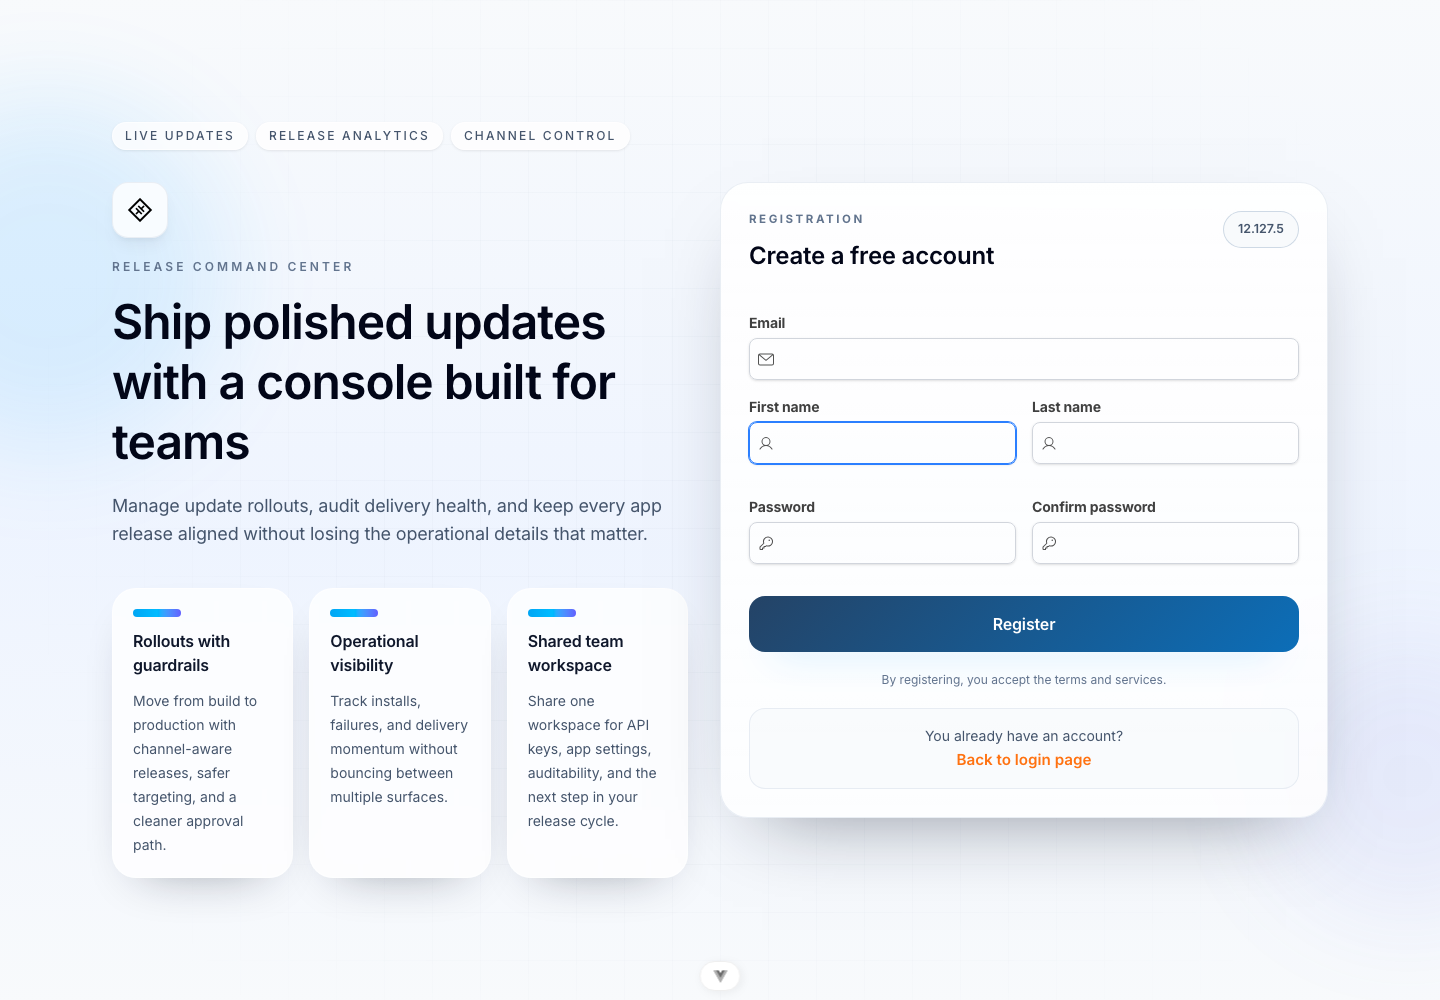
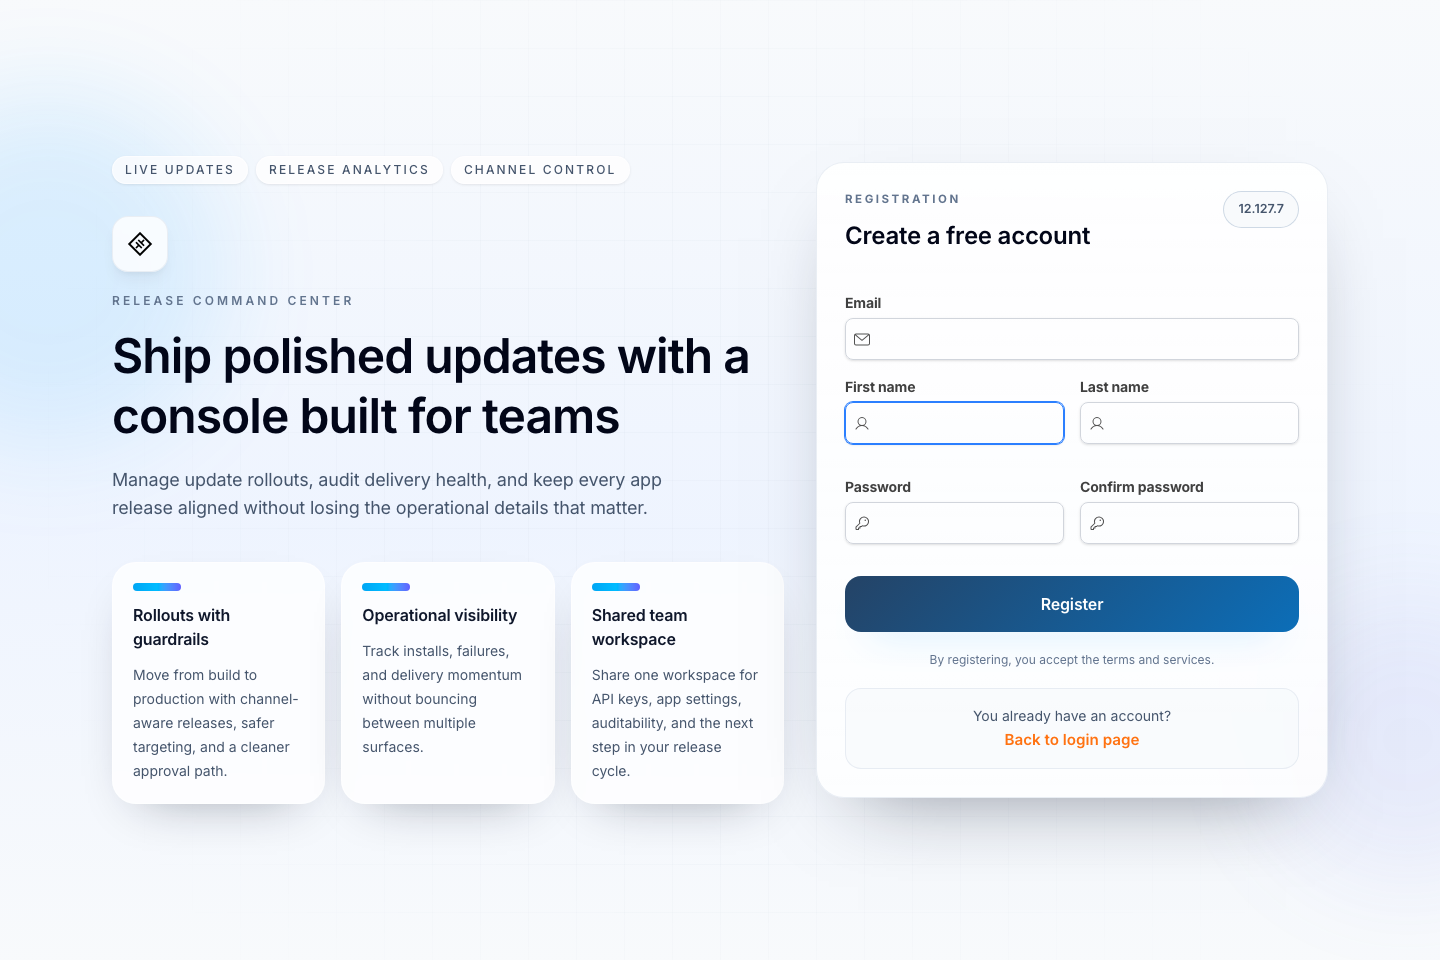
fix(frontend): refine dashboard and auth screenshots

diff --git a/src/components/auth/AuthPageShell.vue b/src/components/auth/AuthPageShell.vue
@@ -68,7 +68,7 @@ const heroHighlights = computed(() => props.heroHighlights ?? [
       />
     </div>
 
-    <div class="relative mx-auto grid w-full max-w-7xl gap-8 px-4 py-8 sm:px-6 lg:min-h-screen lg:grid-cols-[minmax(0,1.04fr)_minmax(24rem,38rem)] lg:items-center lg:px-8 lg:py-10">
+    <div class="relative mx-auto grid w-full max-w-7xl gap-8 px-4 py-8 sm:px-6 lg:min-h-screen lg:grid-cols-[minmax(0,1.08fr)_minmax(24rem,30rem)] lg:items-center lg:px-8 lg:py-10 xl:grid-cols-[minmax(0,1.12fr)_minmax(24rem,32rem)]">
       <section class="hidden lg:block">
         <div class="max-w-2xl">
           <div class="inline-flex flex-wrap gap-2">
@@ -116,17 +116,11 @@ const heroHighlights = computed(() => props.heroHighlights ?? [
         </div>
       </section>
 
-      <div class="relative mx-auto w-full lg:max-w-none" :class="cardWidthClass">
+      <div class="relative mx-auto w-full min-w-0 max-w-[calc(100vw-2rem)]! lg:max-w-none!" :class="cardWidthClass">
         <div class="mb-6 text-center lg:hidden">
           <img src="/capgo.webp" alt="Capgo logo" class="mx-auto mb-4 h-12 w-12 rounded-sm invert dark:invert-0">
           <p class="text-xs font-semibold tracking-[0.24em] text-slate-500 uppercase dark:text-slate-300">
             {{ heroKickerValue }}
-          </p>
-          <h1 class="mt-4 text-3xl font-semibold leading-tight text-slate-950 dark:text-white sm:text-4xl">
-            {{ heroTitleValue }}
-          </h1>
-          <p class="mx-auto mt-4 max-w-md text-sm leading-6 text-slate-600 dark:text-slate-300 sm:text-base">
-            {{ heroDescriptionValue }}
           </p>
         </div>
 

diff --git a/src/components/dashboard/ChartCard.vue b/src/components/dashboard/ChartCard.vue
@@ -60,10 +60,7 @@ const displayNoDataMessage = computed(() => props.noDataMessage ?? t('no-data'))
           <div class="min-w-0 flex-1">
             <slot name="header">
               <div class="min-w-0">
-                <p class="text-[0.68rem] font-semibold tracking-[0.24em] text-slate-400 uppercase dark:text-slate-500">
-                  {{ t('dashboard-card-kicker') }}
-                </p>
-                <h2 class="mt-3 max-w-[18rem] text-xl font-semibold leading-tight text-slate-900 dark:text-white sm:text-2xl">
+                <h2 class="text-xl font-semibold leading-tight text-slate-900 dark:text-white sm:text-2xl">
                   {{ title }}
                 </h2>
               </div>
